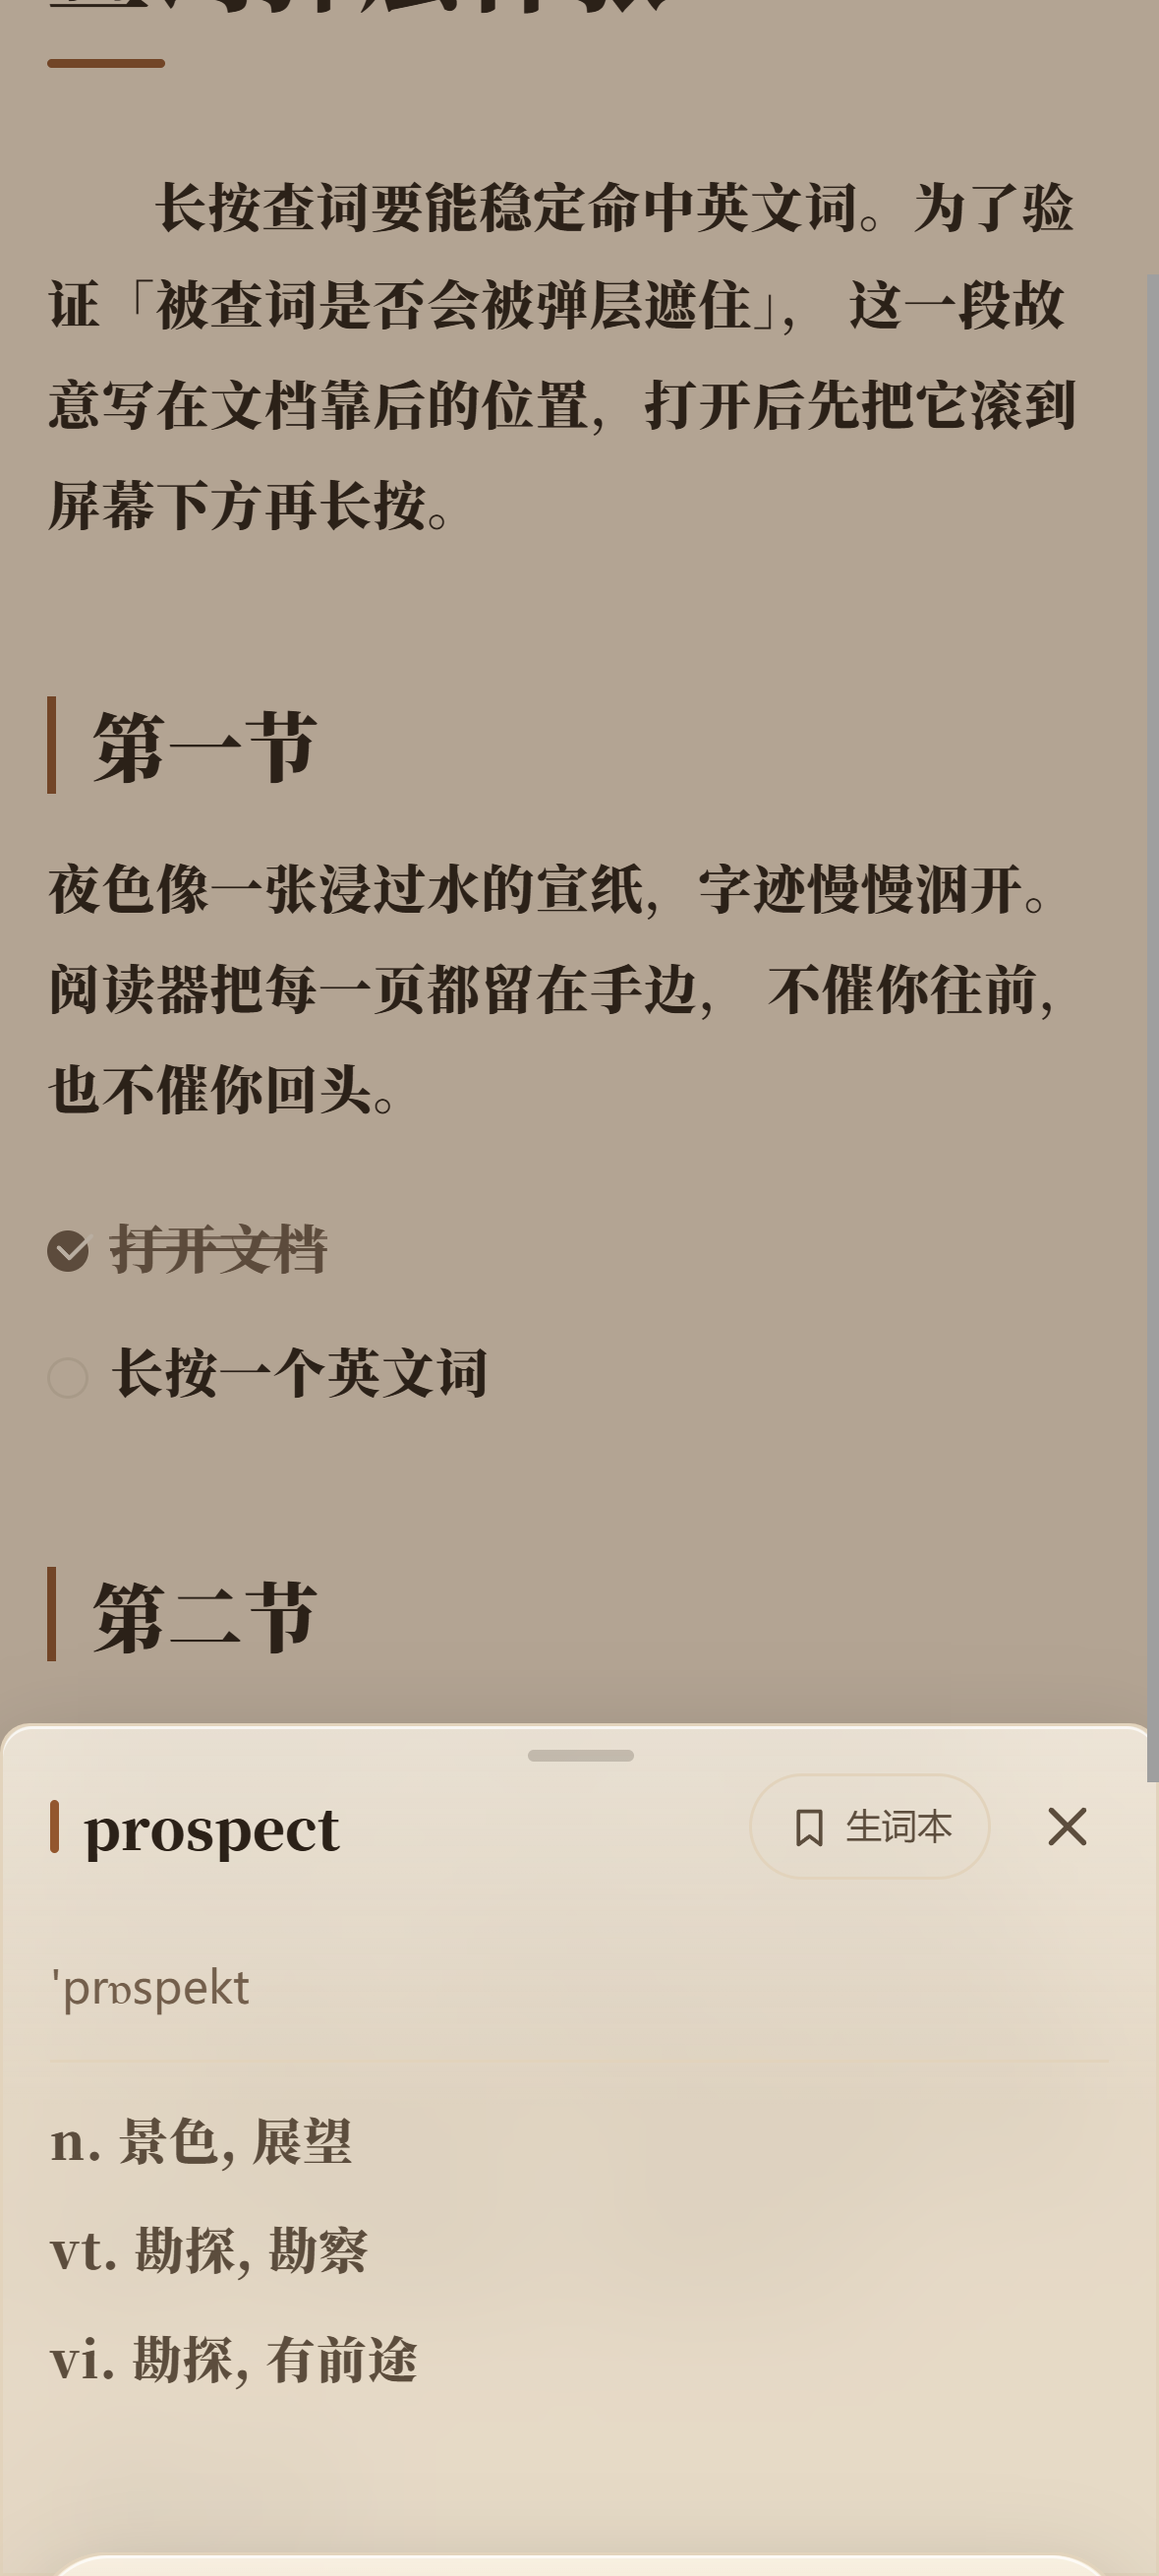
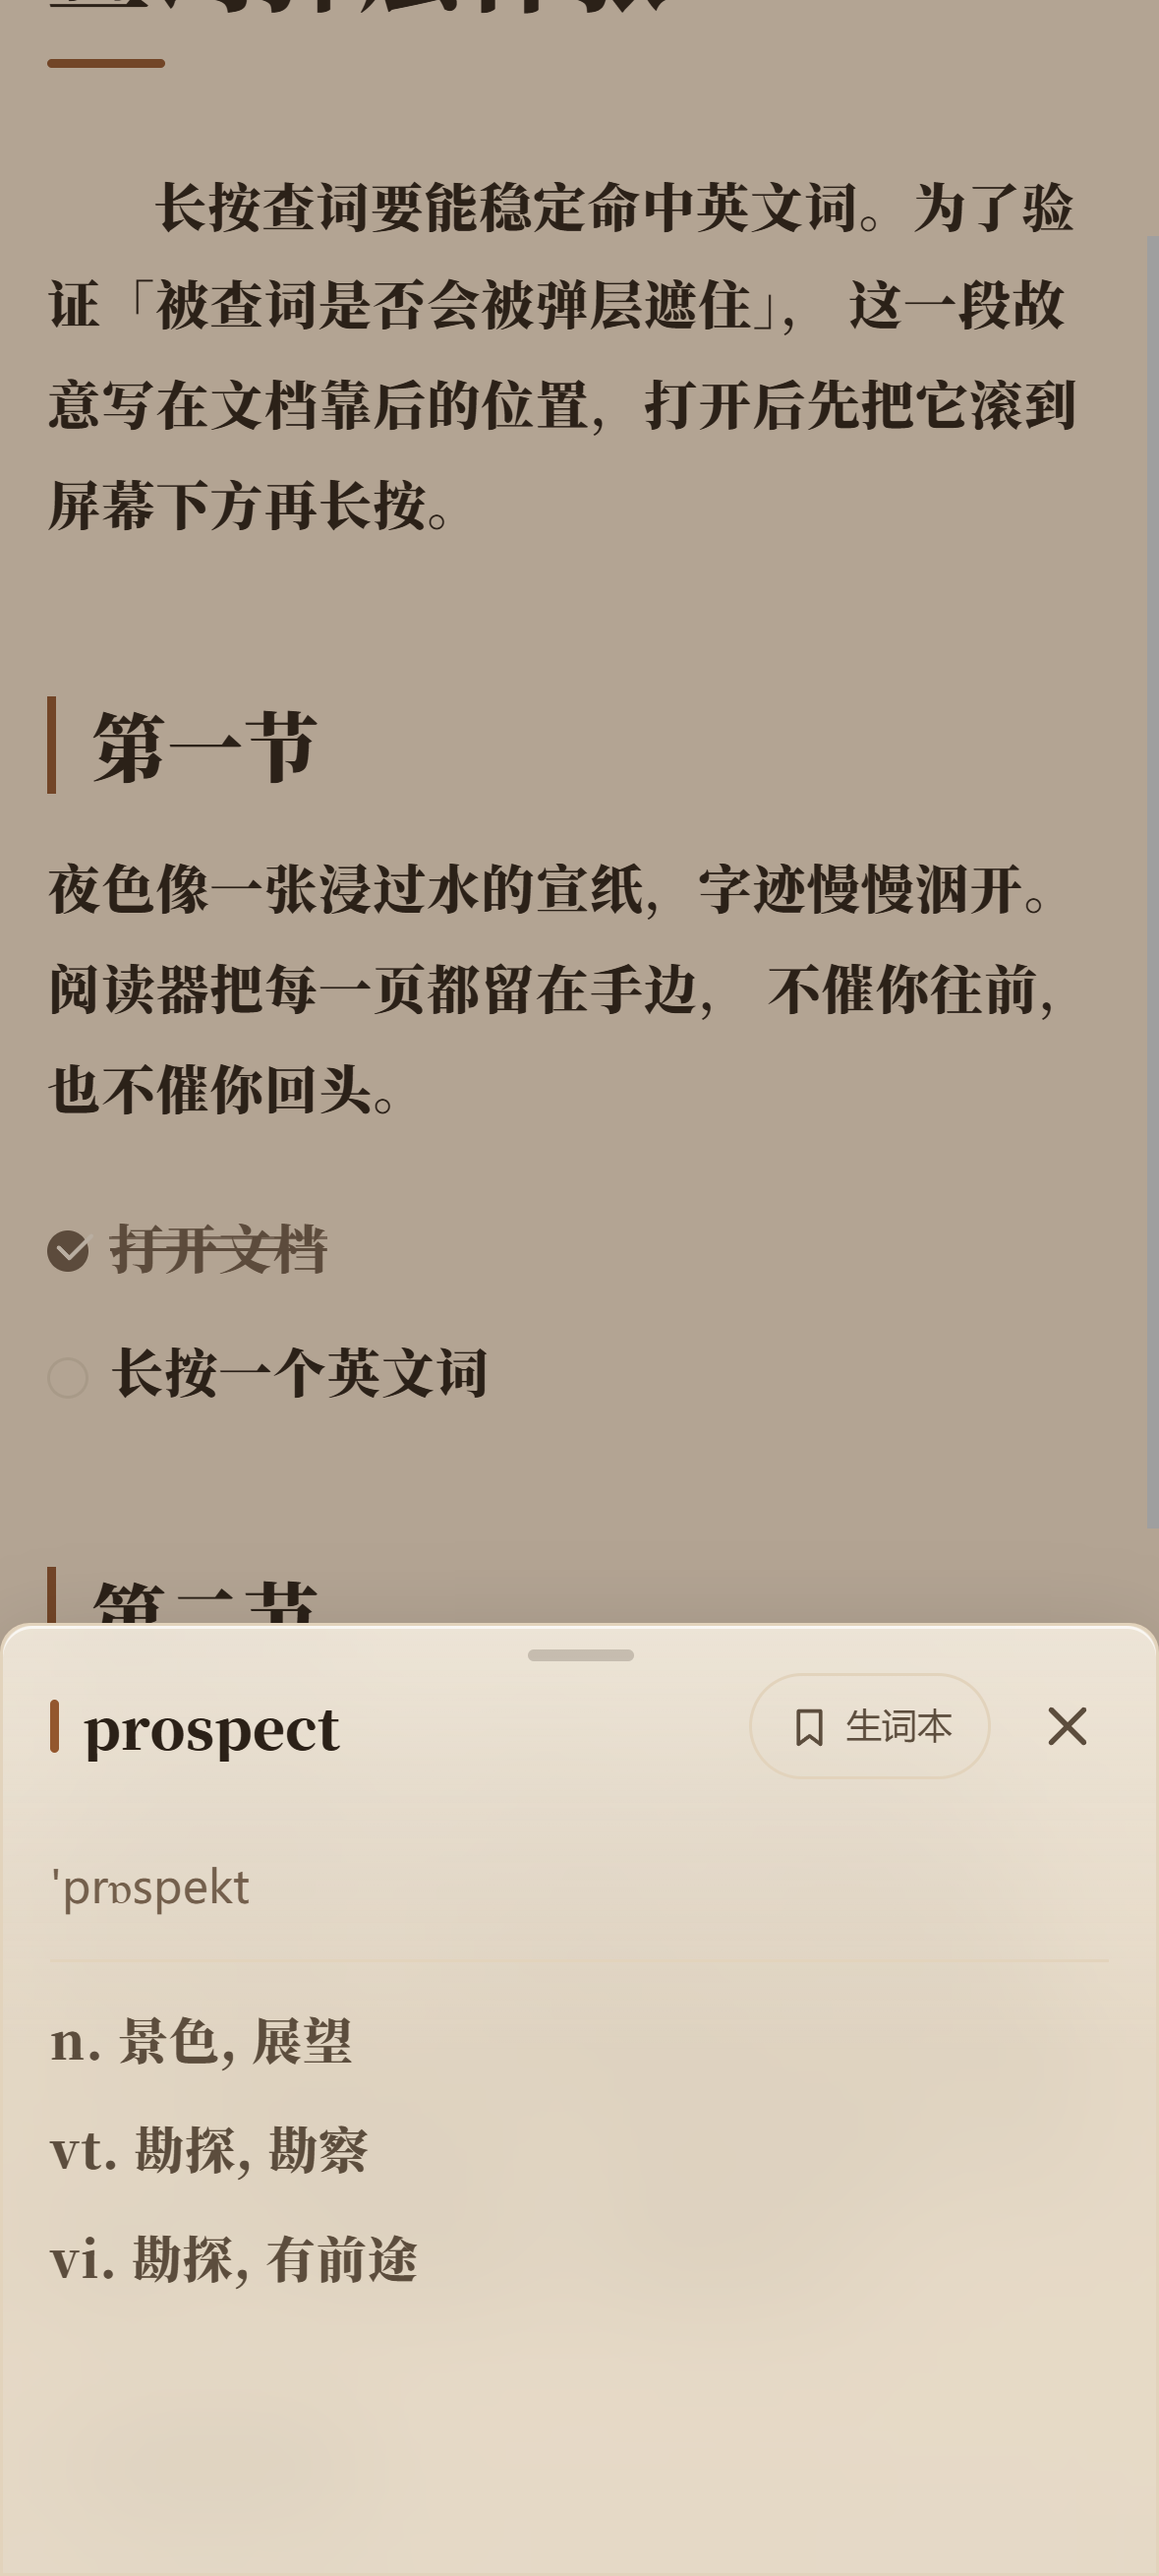
fix(lookup#4#5): 内容裁切收口 + 弹层层级/贴底
修前（打包产物实测）：
  4 max-height 只有 40vh（349.2px），长词条被硬截断；没有底部渐隐提示
  5 阅读底栏 z-index 40 而弹层只有 40，底栏横穿弹层内容
    （截图里「已读 24%」正好压在释义上）

改动【4】：
- `.drawer.drawer--bottom` max-height: min(60vh, 520px)、overflow: hidden
- 新增 `.lookup__scroll`（伸缩外壳，position: relative）+ `.lookup__fade`
  （28px 底部渐隐，--paper-raised → transparent 渐变，不用半透明黑，
  避免夜间主题下黑压黑发脏）
- `.lookup__body` flex:1 + min-height:0 才在 flex 列里真正滚动，
  底部内边距 calc(--sp-5 + --safe-bottom)，最后一行滚到底不贴手势条
- 滚到底（含内容不足一屏）写 data-at-end=1 → 渐隐淡出，
  不再暗示「下面还有」（rAF 首帧算一次 + scroll 监听）

改动【5】：
- `.lookup-root { z-index: 60 }` 压住阅读底栏（40），与其它 sheet 层同档
- 背景仍画到屏幕最底（padding-bottom 吃 --safe-bottom，bottomGap = 0）

打包产物断言（新增/通过）：
  最大高度 520px ✓ / overflow-y auto ✓ / 渐隐存在且滚到底淡出
  （top=1 → end=0，长词条 scrollable=true）✓ / 底部内边距 34px ✓ /
  无半裁内容块 ✓ / 无半裁圆角块 ✓ / 底栏 4 个取样点均不压弹层 ✓ /
  贴底 bottomGap=0 ✓ / 底部安全区 15 个取样点全是弹层 ✓

Changed region(s): [[0.0, 0.6186, 1.0, 0.9278], [0.0611, 0.9897, 0.9466, 1.0]]

diff --git a/web/src/styles/dict.css b/web/src/styles/dict.css
@@ -35,11 +35,27 @@
   width: 100%;
   max-width: var(--measure);
   height: auto;
-  max-height: 40vh;
+  /*
+   * 60vh 与 520px 取小：矮屏（浏览器/小屏机）不会顶掉整个页面，
+   * 高屏（平板、折叠屏展开）也不会拉成一张几乎全屏的面板。
+   */
+  max-height: min(60vh, 520px);
   padding-top: 0;
+  /* 底部安全区含在面板内边距里：背景一直画到屏幕最底，不与手势条之间留色带 */
   padding-bottom: var(--safe-bottom);
   /* 圆角标尺里 --r-lg 已退役（见 tokens.css），卡片跟随统一档位用 --r-md */
   border-radius: var(--r-md) var(--r-md) 0 0;
+  /* 内容不许溢出面板外（滚动交给 .lookup__body，渐隐交给 .lookup__fade） */
+  overflow: hidden;
+}
+
+/*
+ * 底部弹层要压在阅读底栏（.reader-dock，z-index 40）之上，
+ * 与其它 sheet 层（.sheet-layer，z-index 60）同档 —— 否则底栏会横穿
+ * 弹层内容（修前截图里「已读 24%」正好压在释义上）。
+ */
+.lookup-root {
+  z-index: 60;
 }
 
 /* ── 卡片内部 ─────────────────────────────────────── */
@@ -88,11 +104,68 @@
   background: color-mix(in srgb, var(--ink) 20%, transparent);
 }
 
+/*
+ * 内容区（lookup #4）：
+ *   - .lookup__scroll 是外壳：负责「可伸缩 + 相对定位」，渐隐贴在它下沿
+ *   - .lookup__body 是滚动容器：flex:1 + min-height:0 才能在 flex 列里真正滚动
+ *   - 底部内边距用 --safe-bottom 起步，再加一档呼吸；最后一行滚到底时不贴手势条
+ */
+.lookup__scroll {
+  position: relative;
+  display: flex;
+  flex: 1 1 auto;
+  min-height: 0;
+}
+
 .lookup__body {
+  flex: 1 1 auto;
+  min-height: 0;
   overflow-y: auto;
-  padding: var(--sp-4) var(--sp-4) var(--sp-5);
+  overscroll-behavior: contain;
+  padding: var(--sp-4) var(--sp-4)
+    calc(var(--sp-5) + var(--safe-bottom));
   font-family: var(--font-sans);
   letter-spacing: 0;
+  /* 弹性滚动不把父层一起拖走 */
+  -webkit-overflow-scrolling: touch;
+}
+
+/*
+ * 底部渐隐：提示「还能往下滚」。
+ * 指向上方的遮罩用 --paper-raised 到透明的渐变（不用半透明黑，
+ * 夜间主题下黑压黑会脏）；配色随主题走令牌。
+ */
+.lookup__fade {
+  position: absolute;
+  right: 0;
+  bottom: 0;
+  left: 0;
+  height: 28px;
+  pointer-events: none;
+  background: linear-gradient(
+    to top,
+    color-mix(in srgb, var(--paper-raised) 96%, transparent),
+    transparent
+  );
+}
+
+/* 滚到底时渐隐淡出（由 reader 侧写入 data-at-end），避免「已到底还在暗示有内容」 */
+.lookup__scroll[data-at-end='1'] .lookup__fade {
+  opacity: 0;
+  transition: opacity var(--motion-fade-dur) var(--ease-out);
+}
+
+/*
+ * 内容块一律「整块出现」：任何一行都不允许被裁成半个。
+ * 用 scroll-margin + 固定的行高约束把风险压到最小；
+ * 真正的断言在打包产物测试里（跨裁切线的内容块数 == 0）。
+ */
+.lookup__line,
+.lookup__phonetic,
+.lookup__lemma,
+.lookup__form,
+.lookup__translation {
+  scroll-margin-block: var(--sp-2);
 }
 
 .lookup__phonetic {

diff --git a/web/src/views/lookup.ts b/web/src/views/lookup.ts
@@ -177,6 +177,24 @@ function renderCard(
   const mask = el('div', { class: 'mask', 'data-testid': 'lookup-mask' });
   bindDismissGesture(mask, article);
 
+  // 内容区外壳：真正的滚动容器是 .lookup__body，渐隐遮罩贴在它下沿（不进滚动流）
+  const fade = el('span', {
+    class: 'lookup__fade',
+    'data-testid': 'lookup-fade',
+    'aria-hidden': 'true',
+  });
+  const scroller = el('div', { class: 'lookup__scroll' }, body, fade);
+
+  // 滚到底就把渐隐淡掉：已经到底了还在暗示「下面还有」是误导。
+  // 内容不足一屏时同样视为到底（scrollHeight 与 clientHeight 相等）。
+  const syncFade = (): void => {
+    const atEnd = body.scrollTop + body.clientHeight >= body.scrollHeight - 1;
+    scroller.setAttribute('data-at-end', atEnd ? '1' : '0');
+  };
+  body.addEventListener('scroll', syncFade, { passive: true });
+  // 首帧就要按内容高度算一次：短词条不该显示「还能滚」的暗示
+  window.requestAnimationFrame(syncFade);
+
   return el(
     'div',
     { class: 'drawer-root lookup-root', 'data-testid': 'lookup-card' },
@@ -186,7 +204,7 @@ function renderCard(
       { class: 'drawer drawer--bottom glass lookup-panel', role: 'dialog', 'aria-label': '释义' },
       handle,
       head,
-      body,
+      scroller,
     ),
   );
 }
